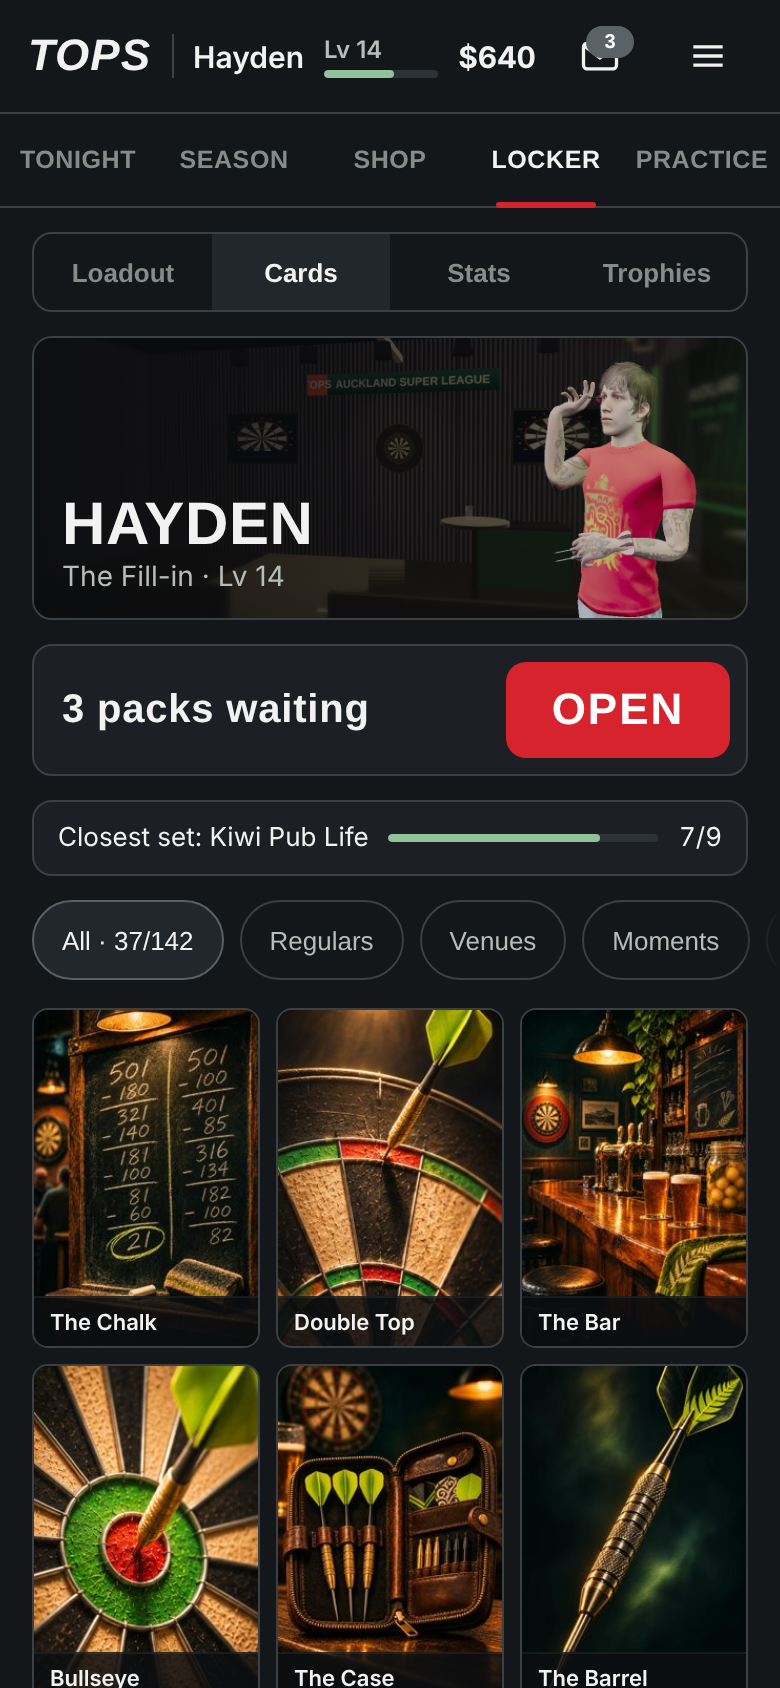
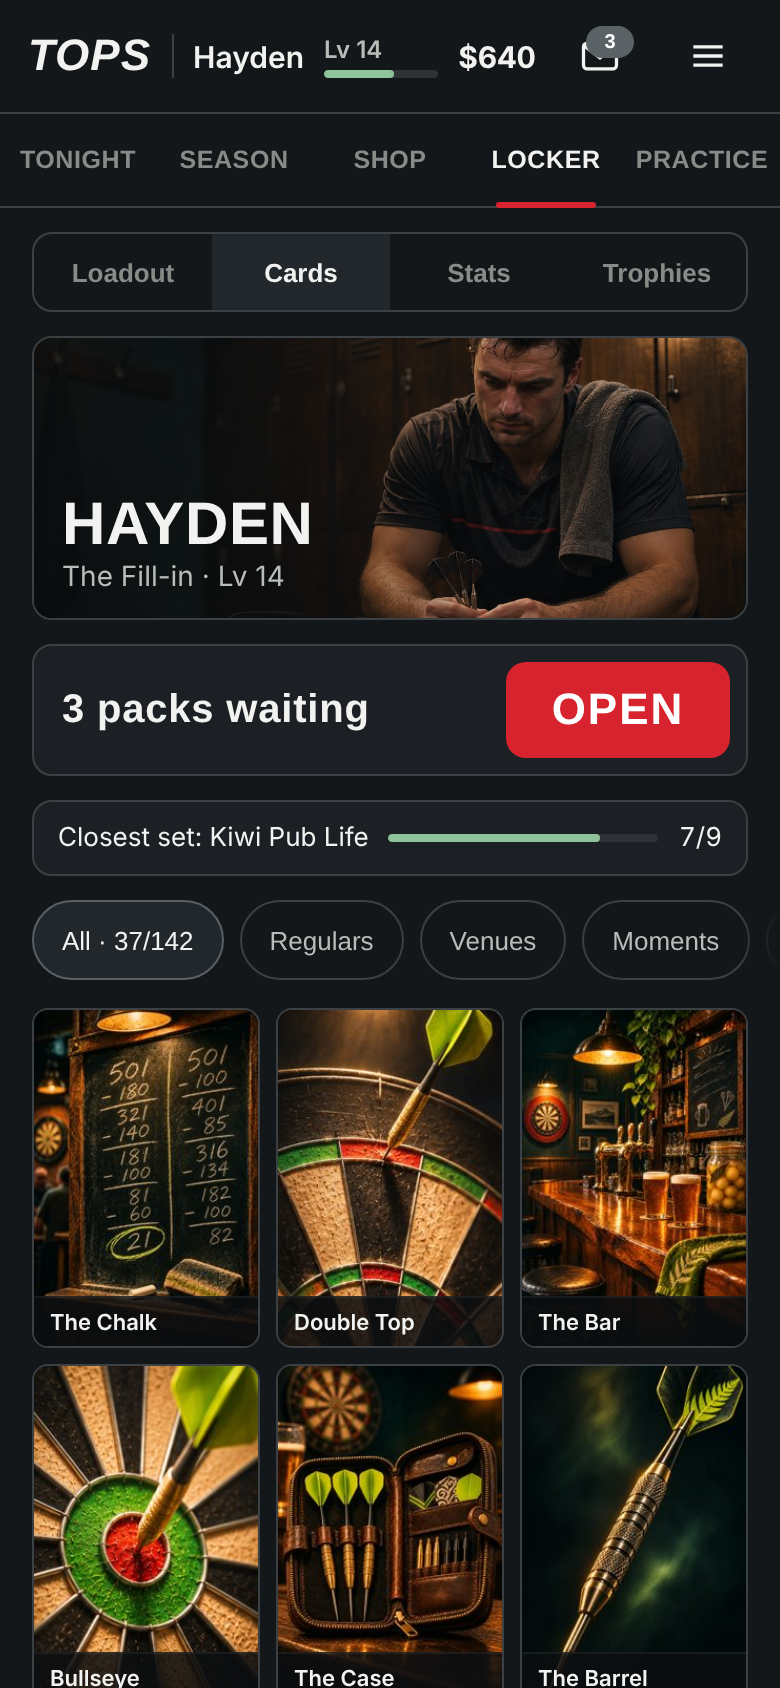
EXP-UX v5 (Hayden 17:09): generated photography for Tonight, Shop, Locker, Result win/loss; real-dart product shots; Barney illustrated exhibition test; before/after sheet
Claude-Session: https://claude.ai/code/session_01WmQEKYuzjKWgLqY2q8YZP3

Changed region(s): [[0.3385, 0.1848, 0.9538, 0.3697], [0.3077, 0.2464, 0.3692, 0.2773], [0.4, 0.2156, 0.4308, 0.2464]]

diff --git a/wip/ux/proto/index.html b/wip/ux/proto/index.html
@@ -69,7 +69,11 @@ button.panel{color:var(--ink);font:inherit}
 /* opponent portrait inside Tonight hero */
 .opp{position:absolute;right:0;bottom:0;height:88%;aspect-ratio:4/5;background-size:contain;background-repeat:no-repeat;background-position:right bottom;max-width:100%}
 /* shop */
-.prod{display:grid;place-items:start center;padding-top:30px;background:radial-gradient(ellipse at 50% 32%,#2c3237 0%,#121417 68%)}
+.prod{background:#0e1012}
+.prod .img{bottom:92px;background-position:50% 35%;background-size:auto 128%;background-color:#0f1011}
+.prod .shade{background:linear-gradient(180deg,rgba(14,16,18,0) 0,rgba(14,16,18,0) 150px,#14181b 172px)!important}
+.prod .txt .row{display:flex;align-items:center;gap:8px}
+.prod .h1{font-size:30px}
 .prod img{width:min(330px,88%);max-width:100%;transform:rotate(-9deg);filter:drop-shadow(0 16px 14px rgba(0,0,0,.65))}
 .badge{display:inline-block;font-size:11px;font-weight:700;letter-spacing:.8px;color:var(--ink);border:1px solid var(--line);border-radius:4px;padding:2px 6px;align-self:flex-start;background:rgba(20,23,26,.7)}
 .cmp{padding:10px 14px;display:flex;flex-direction:column;gap:6px}
@@ -106,11 +110,6 @@ button.panel{color:var(--ink);font:inherit}
 .card.out{display:grid;place-items:center;color:#4a5155;font-family:var(--display);font-weight:700;font-size:18px}
 .card .n{position:absolute;left:0;right:0;bottom:0;height:24px;line-height:24px;padding:0 8px;font-size:11px;font-weight:600;white-space:nowrap;overflow:hidden;text-overflow:ellipsis;background:rgba(12,14,16,.86);border-top:1px solid rgba(255,255,255,.06)}
 /* result */
-.res .vs{position:absolute;inset:0;display:grid;grid-template-columns:1fr auto 1fr;align-items:end}
-.res .p{height:88%;background-size:contain;background-repeat:no-repeat;background-position:bottom}
-.res .score{align-self:stretch;display:flex;flex-direction:column;justify-content:center;align-items:center;gap:4px;width:116px;text-align:center;background:radial-gradient(ellipse at 50% 50%,rgba(8,10,12,.85) 0%,rgba(8,10,12,.55) 55%,rgba(8,10,12,0) 80%);position:relative;z-index:1}
-.res .score b{font-family:var(--display);font-weight:800;font-size:54px;line-height:.9;display:block;font-variant-numeric:tabular-nums}
-.res .score small{font-size:18px;font-weight:600;letter-spacing:2px;color:var(--ink);text-transform:uppercase}
 .rw{display:flex;flex-direction:column;gap:8px}
 .rw h3{margin:2px 0 0;font-size:11.5px;letter-spacing:1px;color:var(--ink3);text-transform:uppercase;font-weight:600}
 .two{display:grid;grid-template-columns:1fr 1.6fr;gap:0}
@@ -123,6 +122,22 @@ button.panel{color:var(--ink);font:inherit}
 .r .sp{flex:1}
 .ghost{height:44px;padding:0 14px;border-radius:8px;border:1px solid #6b7276;background:none;color:var(--ink);font-weight:600;cursor:pointer}
 .pin{position:sticky;bottom:0;background:linear-gradient(transparent,var(--bg) 30%);padding-top:12px;margin-top:auto}
+/* generated photography inside panels (Hayden 17:09) */
+.photo{background-size:cover;background-repeat:no-repeat}
+.tp{display:block;background-size:cover;background-position:50% 50%;border-radius:4px}
+.tile .tp{width:100%;height:34px;margin-top:auto}
+.th .tp{position:absolute;inset:4px 4px 22px;border-radius:5px}
+.r .tp{width:60px;height:30px;flex:0 0 60px}
+.res .lock{position:absolute;right:14px;top:0;bottom:0;width:132px;display:flex;flex-direction:column;justify-content:center;align-items:center;gap:4px;text-align:center}
+.res .lock small{font-size:18px;font-weight:600;letter-spacing:2px;text-transform:uppercase}
+.res .lock b{font-family:var(--display);font-weight:800;font-size:56px;line-height:.9;font-variant-numeric:tabular-nums}
+.res .lock span{font-size:13px;color:var(--ink2)}
+.res.lost .lock small{color:var(--ink2)}
+.poster{position:absolute;inset:0;z-index:30;background:rgba(6,7,8,.82);display:flex;align-items:center;justify-content:center;padding:24px}
+.poster .pc{width:100%;max-width:330px;border:1px solid var(--line);border-radius:12px;overflow:hidden;background:var(--panel)}
+.poster .pi{aspect-ratio:2/3;background-size:cover;background-position:50% 20%;position:relative}
+.poster .pt{position:absolute;left:0;right:0;bottom:0;padding:40px 16px 14px;background:linear-gradient(transparent,rgba(8,9,10,.92));display:flex;flex-direction:column;gap:2px}
+.poster .pb{padding:12px 14px 14px;display:flex;flex-direction:column;gap:8px}
 /* toast */
 .toast{position:absolute;left:16px;right:16px;bottom:24px;background:var(--panel2);border:1px solid var(--line);border-radius:10px;padding:12px 14px;font-size:13px;opacity:0;transform:translateY(8px);transition:.2s;pointer-events:none}
 .toast.on{opacity:1;transform:none}
@@ -137,6 +152,8 @@ button.panel{color:var(--ink);font:inherit}
   <button type="button" data-state="first">First match</button>
   <button type="button" data-state="broke">Can't afford entry</button>
   <button type="button" data-state="normal">Normal</button>
+  <button type="button" data-state="lost">Lost match</button>
+  <button type="button" data-state="exh">Exhibition night</button>
 </div>
 
 <div class="phone" id="phone">
@@ -159,17 +176,16 @@ button.panel{color:var(--ink);font:inherit}
   <!-- TONIGHT -->
   <section class="scr" data-scr="tonight">
     <div class="hero" style="height:265px">
-      <div class="img" style="background-image:url(img/venue_club.jpg)"></div>
-      <div class="opp" style="background-image:url(img/mal_hero.png)"></div>
-      <div class="shade"></div>
-      <div class="txt"><span class="kick" id="tKick">Club singles · Week 5 of 8</span><span class="h1">vs Big Mal</span><span class="lead" id="tStake">Win: a place in the team</span></div>
+      <div class="img photo" id="tImg" style="background-image:url(img/g_tonight_club.jpg);background-position:70% 30%"></div>
+      <div class="shade" style="background:linear-gradient(180deg,rgba(10,12,14,0) 30%,rgba(10,12,14,.92) 100%),linear-gradient(90deg,rgba(10,12,14,.55) 0%,rgba(10,12,14,0) 55%)"></div>
+      <div class="txt"><span class="kick" id="tKick">Club singles · Week 5 of 8</span><span class="h1" id="tOpp">vs Big Mal</span><span class="lead" id="tStake">Win: a place in the team</span></div>
     </div>
     <div class="line" id="tForm">You 47 (last 10) · Him 42 · Best of 3</div>
     <button class="primary" type="button" id="walkOn"><b>Walk on</b><small id="tEntry">Entry $40</small></button>
     <button class="meta" type="button" data-go="season" id="tSeason">Week 5 of 8 · 3rd · 2 pts off 2nd ›</button>
     <div class="row2" id="tTiles">
       <button class="panel tile" type="button" id="moneyTile"><span class="t">Money match</span><span class="s">Back room · $100</span></button>
-      <button class="panel tile" type="button" data-go="shop"><span class="t">Next dart</span><span class="s">Razor Edge · Lv 15</span><img src="img/dart_razor_t.png" alt=""></button>
+      <button class="panel tile" type="button" data-go="shop"><span class="t">Next dart</span><span class="s">Razor Edge · Lv 15</span><span class="tp" style="background-image:url(img/g_d_razor.jpg)"></span></button>
     </div>
     <div class="meta" id="tGoal" style="margin-top:-4px;min-height:24px">Goal: average 61+ → $40</div>
   </section>
@@ -186,10 +202,10 @@ button.panel{color:var(--ink);font:inherit}
   <!-- SHOP -->
   <section class="scr" data-scr="shop" hidden>
     <div class="sub" role="tablist" style="margin:0"><button aria-selected="true">Darts</button><button aria-selected="false">Shafts &amp; flights</button><button aria-selected="false">Shirts</button></div>
-    <div class="hero prod" style="height:240px">
-      <img id="sImg" src="img/dart_razor_t.png" alt="Razor Edge dart">
+    <div class="hero prod" style="height:262px">
+      <div class="img photo" id="sImg" role="img" aria-label="Dart" style="background-position:50% 35%"></div>
       <div class="shade" style="background:linear-gradient(180deg,transparent 55%,rgba(10,12,14,.9))"></div>
-      <div class="txt"><span class="badge" id="sBadge">NEW · LV 15</span><span class="h1" id="sName">Razor Edge 24g</span><span class="lead" id="sLine">Sharp razor grip, 85% tungsten</span></div>
+      <div class="txt"><span class="row"><span class="badge" id="sBadge">NEW · LV 15</span><span class="kick" id="sBrand">Red Dragon</span></span><span class="h1" id="sName">Razor Edge 24g</span><span class="lead" id="sLine">Sharp razor grip, 85% tungsten</span></div>
     </div>
     <div class="panel cmp" id="sCmp"></div>
     <div id="sAct"></div>
@@ -204,8 +220,7 @@ button.panel{color:var(--ink);font:inherit}
   <section class="scr" data-scr="locker" hidden>
     <div class="sub" role="tablist" style="margin:0"><button aria-selected="false">Loadout</button><button aria-selected="true">Cards</button><button aria-selected="false">Stats</button><button aria-selected="false">Trophies</button></div>
     <div class="hero me" style="height:140px">
-      <div class="img" style="background-image:url(img/venue_regional.jpg);opacity:.45"></div>
-      <div class="fig" style="background-image:url(img/me_hero.png)"></div>
+      <div class="img photo" style="background-image:url(img/g_locker.jpg);background-position:80% 35%"></div>
       <div class="shade" style="background:linear-gradient(90deg,rgba(10,12,14,.85) 0%,rgba(10,12,14,.2) 70%)"></div>
       <div class="txt" style="right:45%"><span class="h1" style="font-size:30px">Hayden</span><span class="lead">The Fill-in · Lv 14</span></div>
     </div>
@@ -227,14 +242,15 @@ button.panel{color:var(--ink);font:inherit}
   <!-- RESULT (no tab rail) -->
   <section class="scr res" data-scr="result" hidden>
     <div class="hero" style="height:250px">
-      <div class="img" style="background-image:url(img/venue_club.jpg);opacity:.38"></div>
-      <div class="vs"><div class="p" style="background-image:url(img/me_hero.png)"></div><div class="score"><small id="rWho">Won</small><b id="rScore">2–1</b></div><div class="p" id="rThem" style="background-image:url(img/mal_hero.png);transform:scaleX(-1);filter:brightness(.5) saturate(.6)"></div></div>
+      <div class="img photo" id="rImg" style="background-image:url(img/g_result_win.jpg);background-position:20% 30%"></div>
+      <div class="shade" style="background:linear-gradient(270deg,rgba(10,12,14,.88) 0%,rgba(10,12,14,.35) 45%,rgba(10,12,14,0) 70%)"></div>
+      <div class="lock"><small id="rWho">Won</small><b id="rScore">2–1</b><span id="rVs">vs Big Mal</span></div>
     </div>
     <div class="line" id="rLine">You 51 · Him 44 · Checkout 38%</div>
     <div class="rw">
       <h3>Rewards</h3>
       <div class="panel two"><div><span class="cash" id="rCash">+$55</span></div><div><div class="xp"><span id="rXp">+240 XP</span><span>Lv 14</span></div><div class="bar"><i style="width:78%"></i></div></div></div>
-      <div class="panel r"><img src="img/dart_razor_t.png" alt=""><span class="sp" id="rWant">Razor Edge: $45 to go</span></div>
+      <div class="panel r"><span class="tp" style="background-image:url(img/g_d_razor.jpg)"></span><span class="sp" id="rWant">Razor Edge: $45 to go</span></div>
       <div class="panel r"><span class="sp">🂠 1 card pack</span><button class="ghost" type="button" id="rOpen">Open</button></div>
       <div class="panel r"><span class="sp" id="rSeason">Now 2nd · top two go up</span></div>
     </div>
@@ -249,12 +265,13 @@ button.panel{color:var(--ink);font:inherit}
 const $=s=>document.querySelector(s),$$=s=>[...document.querySelectorAll(s)];
 const st={bank:640,owned:{assassin:1},sel:'supergrip',packs:3,first:false,broke:false};
 const DARTS=[
- {id:'assassin',n:'Club Brass 22g',line:'Your starter set. Brass, 22 g.',lv:1,price:0,img:'dart_assassin_t.png',sc:0,co:0,w:22},
- {id:'supergrip',n:'Supergrip Ultra 22g',line:'Knurled grip that holds in a sweaty hand',lv:8,price:95,img:'dart_supergrip_t.png',sc:2,co:3,w:22,isNew:1},
- {id:'razor',n:'Razor Edge 24g',line:'Sharp razor grip, 85% tungsten',lv:15,price:120,img:'dart_razor_t.png',sc:4,co:5,w:24},
- {id:'vapor8',n:'Vapor8 21g',line:'Slim, light, quick through the air',lv:18,price:150,img:'dart_vapor8_t.png',sc:5,co:3,w:21},
- {id:'zen',n:'Zen Jutsu 23g',line:'Ringed grip, settled flight',lv:25,price:170,img:'dart_zen_t.png',sc:7,co:7,w:23},
- {id:'asp',n:'Asp G2 24g',line:'Front-weighted, built for treble 20',lv:33,price:270,img:'dart_asp_t.png',sc:9,co:8,w:24}];
+ {id:'assassin',n:'Harrows Club Brass 22g',line:'Brass starter set. Where everyone begins.',lv:1,price:0,img:'g_d_assassin.jpg',sc:0,co:0,w:22},
+ {id:'supergrip',n:'Harrows Supergrip Ultra 22g',line:'Micro-grip tungsten. Holds in a sweaty hand.',lv:8,price:95,img:'g_d_supergrip.jpg',sc:2,co:3,w:22,isNew:1},
+ {id:'razor',n:'Red Dragon Razor Edge 24g',line:'Sharp razor grip, 85% tungsten.',lv:15,price:120,img:'g_d_razor.jpg',sc:4,co:5,w:24},
+ {id:'vapor8',n:'Target Vapor8 21g',line:'90% tungsten, slim. Loves the treble.',lv:18,price:150,img:'g_d_vapor8.jpg',sc:5,co:3,w:21},
+ {id:'zen',n:'Shot Zen Jutsu 23g',line:'Kiwi-made 90% tungsten. Balanced.',lv:25,price:170,img:'g_d_zen.jpg',sc:7,co:7,w:23},
+ {id:'asp',n:'Target Aspinall G2 24g',line:'Scalloped grip, front-weighted.',lv:33,price:270,img:'g_d_asp.jpg',sc:9,co:8,w:24},
+ {id:'littler',n:'Target Luke Littler Gen 1 23g',line:'The Nuke\u2019s own. Grip everywhere.',lv:36,price:300,img:'g_d_littler.jpg',sc:10,co:9,w:23}];
 const LV=14;
 function toast(t){const e=$('#toast');e.textContent=t;e.classList.add('on');clearTimeout(toast.t);toast.t=setTimeout(()=>e.classList.remove('on'),1800);}
 function centerThumb(){requestAnimationFrame(()=>{const t=$('#sThumbs'),q=t&&t.querySelector('[aria-pressed="true"]');if(!q||!t.clientWidth)return;t.scrollTo({left:Math.max(0,q.offsetLeft-t.offsetLeft-(t.clientWidth-q.clientWidth)/2),behavior:'instant'});});}
@@ -285,11 +302,23 @@ function renderTonight(){
   $('#moneyTile .s').textContent=st.broke?'Back room · $100 · play this first':'Back room · $100';
 }
 $('#walkOn').onclick=()=>{if(st.broke){toast('Short of the $40 entry. Take the money match first, or the club covers it this once.');return;}show('result');};
-$$('.legend button').forEach(b=>b.onclick=()=>{st.first=b.dataset.state==='first';st.broke=b.dataset.state==='broke';renderTonight();show('tonight');toast(b.textContent+' state');});
+function renderResult(){const L=!!st.lost,E=!!st.exh;$('.res').classList.toggle('lost',L);
+  $('#rImg').style.backgroundImage='url(img/'+(L?'g_result_loss.jpg':'g_result_win.jpg')+')';
+  $('#rWho').textContent=L?'Lost':'Won';$('#rScore').textContent=L?'1–2':'2–1';$('#rVs').textContent='vs '+(E?'Barney':'Big Mal');
+  $('#rLine').textContent=L?'You 41 · Him 44 · Checkout 22%':'You 51 · Him 44 · Checkout 38%';
+  $('#rCash').textContent=L?'+$5':'+$55';$('#rXp').textContent=L?'+100 XP':'+240 XP';
+  $('#rWant').textContent=L?'Best visit 100 · keep going':'Razor Edge: $45 to go';$('#rSeason').textContent=L?'Now 4th · 2 pts off 2nd':'Now 2nd · top two go up';}
+function renderExh(){const E=!!st.exh;$('#tImg').style.backgroundImage='url(img/'+(E?'g_exh_barney_tonight.jpg':'g_tonight_club.jpg')+')';
+  $('#tOpp').textContent=E?'vs Barney':'vs Big Mal';if(E){$('#tKick').textContent='Exhibition · one night only';$('#tStake').textContent='Win: $250 and his signed shirt';$('#tForm').textContent='You 47 (last 10) · Him 96 · Best of 3';$('#tEntry').textContent='Free entry';}}
+function poster(){const p=document.createElement('div');p.className='poster';p.innerHTML=`<div class="pc" role="dialog" aria-label="Exhibition invite"><div class="pi" style="background-image:url(img/g_exh_barney_poster.jpg)"><div class="pt"><span class="kick">Exhibition · Friday</span><span class="h1" style="font-size:34px">Barney is in town</span><span class="lead">Five-time world champion. Best of 3 at the Club.</span></div></div><div class="pb"><button class="primary" type="button" id="pGo"><b>Take him on</b></button><button class="link" type="button" id="pLater">Not tonight</button></div></div>`;$('#phone').appendChild(p);
+  $('#pGo').onclick=()=>{p.remove();show('tonight');};$('#pLater').onclick=()=>{p.remove();st.exh=false;renderTonight();renderExh();};}
+$$('.legend button').forEach(b=>b.onclick=()=>{const k=b.dataset.state;document.querySelectorAll('.poster').forEach(e=>e.remove());
+  st.first=k==='first';st.broke=k==='broke';st.lost=k==='lost';st.exh=k==='exh';renderTonight();renderExh();renderResult();
+  if(k==='lost'){show('result');}else{show('tonight');if(k==='exh')poster();}toast(b.textContent+' state');});
 // Shop
 function renderShop(){
   const d=DARTS.find(x=>x.id===st.sel),owned=!!st.owned[d.id],locked=d.lv>LV,mine=DARTS.find(x=>x.id==='assassin');
-  $('#sImg').src='img/'+d.img;$('#sImg').alt=d.n+' dart';$('#sName').textContent=d.n;$('#sLine').textContent=d.line;
+  $('#sImg').style.backgroundImage='url(img/'+d.img+')';$('#sImg').setAttribute('aria-label',d.n+' dart');{const sp=d.n.match(/^(Harrows|Red Dragon|Target|Shot|Winmau|Unicorn) (.*)$/);$('#sBrand').textContent=sp?sp[1]:'';$('#sName').textContent=sp?sp[2]:d.n;}$('#sLine').textContent=d.line;
   $('#sBadge').textContent=owned?'OWNED':locked?'LOCKED · LV '+d.lv:(d.isNew?'NEW · LV '+d.lv:'LV '+d.lv);
   const rows=owned&&d.id==='assassin'?[['Your current dart','','neutral']]:[['Scoring','+'+(d.sc-mine.sc),'up'],['Control','+'+(d.co-mine.co),'up']].concat(d.w===mine.w?[['Weight','Same, '+d.w+' g','neutral']]:[[d.w>mine.w?'Heavier':'Lighter',d.w+' g vs '+mine.w+' g','neutral']]);
   $('#sCmp').innerHTML='<h3>vs your Club Brass</h3>'+rows.map(r=>`<div><span>${r[0]}</span><span class="${r[2]}">${r[1]}</span></div>`).join('');
@@ -299,7 +328,7 @@ function renderShop(){
   else if(st.bank<d.price)a=`<div class="lockline"><b>${money(d.price)} · you have ${money(st.bank)}</b><span>${money(d.price-st.bank)} to go</span><button class="link" type="button" id="sTry">Try it in practice</button></div>`;
   else a=`<button class="primary" type="button" id="sBuy"><b>Buy · ${money(d.price)}</b></button><div class="meta" style="min-height:20px">${money(st.bank)} → ${money(st.bank-d.price)}</div><div style="text-align:center"><button class="link" type="button" id="sTry">Try it in practice</button></div>`;
   $('#sAct').innerHTML=a;
-  $('#sThumbs').innerHTML=DARTS.map(x=>`<button class="th ${x.lv>LV&&!st.owned[x.id]?'lock':''}" type="button" data-id="${x.id}" aria-pressed="${x.id===st.sel}" aria-label="${x.n}"><img src="img/${x.img}" alt=""><small>${st.owned[x.id]?'✓ Owned':x.lv>LV?'🔒 Lv '+x.lv:money(x.price)}</small></button>`).join('');centerThumb();
+  $('#sThumbs').innerHTML=DARTS.map(x=>`<button class="th ${x.lv>LV&&!st.owned[x.id]?'lock':''}" type="button" data-id="${x.id}" aria-pressed="${x.id===st.sel}" aria-label="${x.n}"><span class="tp" style="background-image:url(img/${x.img})"></span><small>${st.owned[x.id]?'✓ Owned':x.lv>LV?'🔒 Lv '+x.lv:money(x.price)}</small></button>`).join('');centerThumb();
   $$('#sThumbs .th').forEach(b=>b.onclick=()=>{st.sel=b.dataset.id;renderShop();});
   const buy=$('#sBuy');if(buy)buy.onclick=()=>{if(st.bank<d.price){renderShop();return;}st.owned[d.id]=1;st.bank-=d.price;$('#bank').textContent=money(st.bank);toast('Bought '+d.n+'. Equipped for your next match.');renderShop();};
   const tr=$('#sTry');if(tr)tr.onclick=()=>toast('Free practice session with '+d.n+'. No XP or money from it.');

diff --git a/wip/ux/proto/shots.js b/wip/ux/proto/shots.js
@@ -7,4 +7,7 @@ const W = +(process.argv[2] || 390), H = +(process.argv[3] || 844);
   for (const t of ['tonight', 'shop', 'locker']) { await p.evaluate(t => show(t), t); await p.waitForTimeout(300); await p.screenshot({ path: path.join(__dirname, `shot_${t}_${W}.png`) }); }
   await p.evaluate(() => { st.sel = 'zen'; renderShop(); show('shop'); }); await p.waitForTimeout(200); await p.screenshot({ path: path.join(__dirname, `shot_shoplocked_${W}.png`) });
   await p.evaluate(() => show('result')); await p.waitForTimeout(300); await p.screenshot({ path: path.join(__dirname, `shot_result_${W}.png`) });
+  await p.evaluate(() => { st.lost=true; renderResult(); show('result'); }); await p.waitForTimeout(300); await p.screenshot({ path: path.join(__dirname, `shot_resultloss_${W}.png`) });
+  await p.evaluate(() => { st.lost=false; renderResult(); st.exh=true; renderTonight(); renderExh(); show('tonight'); }); await p.waitForTimeout(300); await p.screenshot({ path: path.join(__dirname, `shot_exhtonight_${W}.png`) });
+  await p.evaluate(() => poster()); await p.waitForTimeout(300); await p.screenshot({ path: path.join(__dirname, `shot_exhposter_${W}.png`) });
   const ov = await p.evaluate(() => document.documentElement.scrollWidth > innerWidth); console.log('hscroll', ov); await b.close(); })();

diff --git a/wip/ux/ba/sheet.py b/wip/ux/ba/sheet.py
@@ -1,0 +1,17 @@
+# Hayden's before/after sheet: live 3.05 at 390 (left) vs prototype v5 (right), one row pair per screen
+import sys
+from PIL import Image, ImageDraw, ImageFont
+L='/home/claude/reswt/wip/ux/result/'; P='/home/claude/homewt/wip/ux/proto/'
+pairs=[('Tonight','live_tonight.png','shot_tonight_390.png'),('Shop','live_shop.png','shot_shop_390.png'),('Locker','live_locker.png','shot_locker_390.png'),
+       ('Result · win','before_a.png','shot_result_390.png'),('Result · loss','liveloss_a.png','shot_resultloss_390.png'),
+       ('Exhibition poster (Barney test)','live_poster.png','shot_exhposter_390.png'),('Exhibition Tonight (Barney test)','live_tonight.png','shot_exhtonight_390.png')]
+try: F=ImageFont.truetype('/usr/share/fonts/truetype/dejavu/DejaVuSans-Bold.ttf',26); f=ImageFont.truetype('/usr/share/fonts/truetype/dejavu/DejaVuSans.ttf',20)
+except: F=f=ImageFont.load_default()
+W,H=390,844; cw=2*W+40; cols=4; rows=(len(pairs)+cols-1)//cols
+sheet=Image.new('RGB',(cols*(cw+40)+40,rows*(H+90)+40),(10,11,12)); d=ImageDraw.Draw(sheet)
+for i,(t,a,b) in enumerate(pairs):
+  x=40+(i%cols)*(cw+40); y=40+(i//cols)*(H+90)
+  d.text((x,y),t,font=F,fill=(240,240,236)); d.text((x,y+34),'BEFORE · live 3.05',font=f,fill=(150,156,160)); d.text((x+W+40,y+34),'AFTER · prototype v5',font=f,fill=(215,35,45))
+  for j,src in enumerate([L+a,P+b]):
+    im=Image.open(src).convert('RGB'); im=im.resize((W,int(im.size[1]*W/im.size[0]))).crop((0,0,W,H)); sheet.paste(im,(x+j*(W+40),y+64))
+sheet.save(sys.argv[1],quality=86); print(sheet.size)
